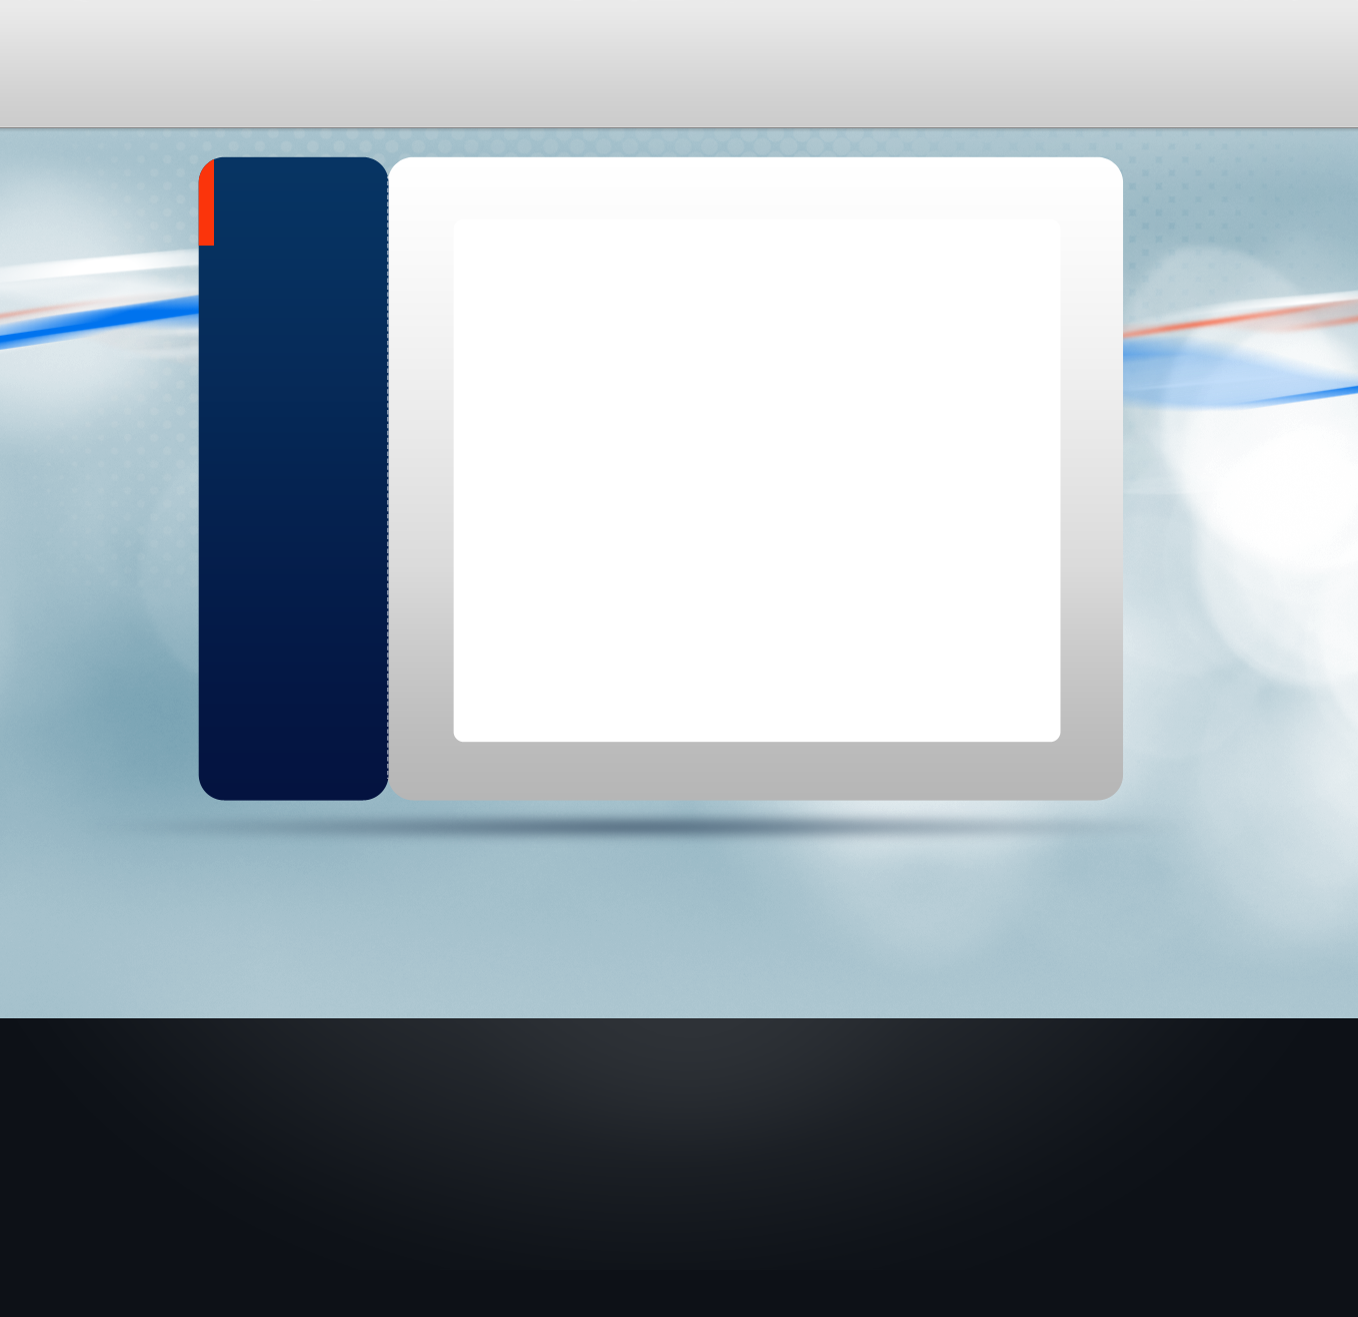
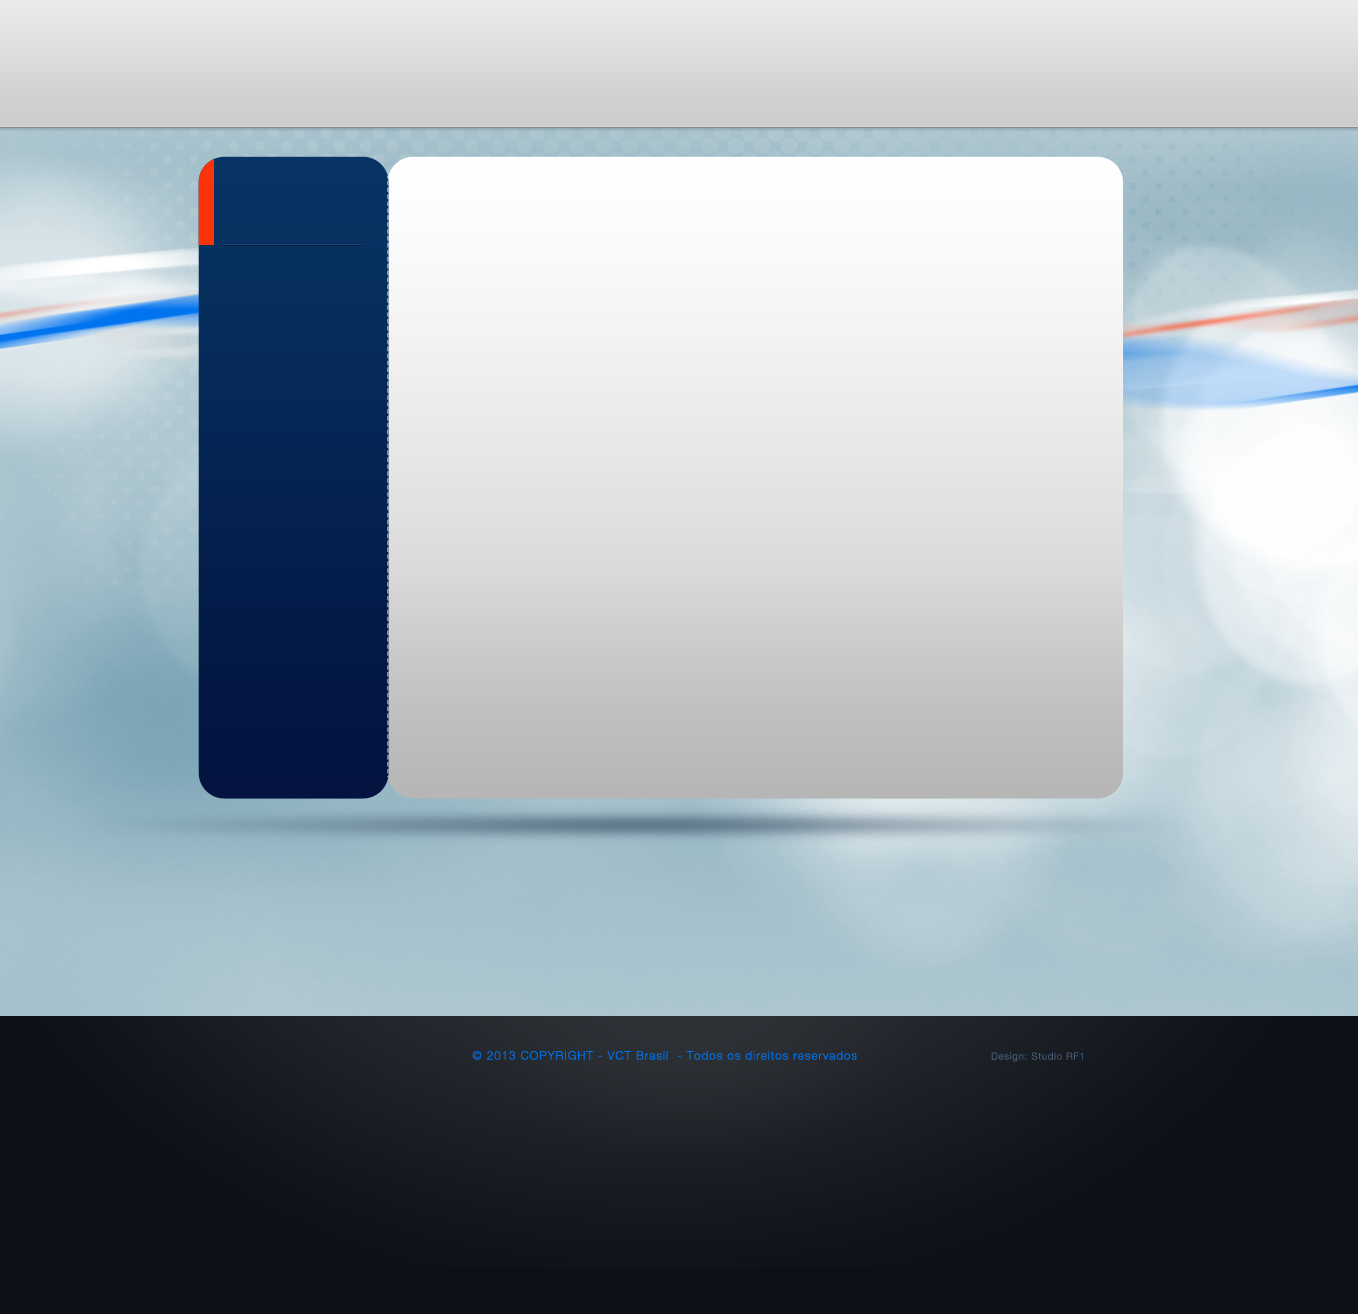
Alteração do background produto

Changed region(s): [[0.3093, 0.3432, 0.8041, 0.5616]]

diff --git a/css/produto.css b/css/produto.css
@@ -6,10 +6,22 @@
 
 /*  Middle  */
 
-#middle { width: 1358px; height: 864px; position: relative; background-color: beige }
+#middle { width: 1358px; height: 864px; position: relative }
 
-	#middle #card { width: 386px; height: 884px;  float: left; background-color: red }
-		#middle #card #cardMenu { width: 189px; height: 608px; margin-left: 199px; background-color: orange }
+	#middle #card { width: 386px; height: 884px;  float: left }
+		#middle #card #cardMenu { width: 189px; height: 608px; margin-left: 199px }
+			#middle #card #cardMenu #cardTittle { width: 155px; height: 88px; padding-left: 23px; padding-top: 56px; letter-spacing: 1px;
+												font-family: Signika, sans-serif; font-weight: bold; font-size: 16px; color: #ffffff  }
+			#middle #card #cardMenu #giftCard { width: 189px; height: 68px; background-color: black }
+			#middle #card #cardMenu #smartCard { width: 189px; height: 90px; background-color: navy }
+			#middle #card #cardMenu #corporateCard { width: 189px; height: 41px; background-color: maroon }
+			#middle #card #cardMenu #credentialCard { width: 189px; height: 39px; background-color: green }
+			#middle #card #cardMenu #fidelityCard { width: 189px; height: 39px; background-color: yellow }
+			#middle #card #cardMenu #preCard { width: 189px; height: 41px; background-color: olive }
+			#middle #card #cardMenu #specialCard { width: 189px; height: 59px; background-color: pink }
+			#middle #card #cardMenu #gsmCard  { width: 189px; height: 41px; background-color: violet }
+			#middle #card #cardMenu #paperCard { width: 189px; height: 41px; background-color: purple }
+			#middle #card #cardMenu #aquaticCard { width: 189px; height: 36px; background-color: darkblue }
 
 	#middle #cardImage { width: 972px; height: 884px; float: left; background-color: yellow }
 		#middle #cardImage #boxCardImage { width: 608px; height: 521px; margin-left: 64px; margin-top: 89px; background-color: purple }

diff --git a/produto.html b/produto.html
@@ -58,7 +58,50 @@
         	<div id="middle"> 
         		<div id="card"> 
         			<div id="cardMenu"> 
+        				<div id="cardTittle"> 
+         					Cart&otilde;es para todas as necessidades
+          				</div>	<!-- </cardTitlle> -->
+         			
+         				<div id="giftCard"> 
          
+          				</div>	<!-- </giftCard> -->
+
+          				<div id="smartCard"> 
+         
+          				</div>	<!-- </smartCard> -->
+
+          				<div id="corporateCard"> 
+         
+          				</div>	<!-- </corporateCard> -->
+
+          				<div id="credentialCard"> 
+         
+          				</div>	<!-- </credentialCard> -->
+
+          				<div id="fidelityCard"> 
+         
+          				</div>	<!-- </fidelityCard> -->
+
+          				<div id="preCard"> 
+         
+          				</div>	<!-- </preCard> -->
+
+          				<div id="specialCard"> 
+         
+          				</div>	<!-- </specialCard> -->
+
+          				<div id="gsmCard"> 
+         
+          				</div>	<!-- </gsmCard> -->
+
+          				<div id="paperCard"> 
+         
+          				</div>	<!-- </paperCard> -->
+
+          				<div id="aquaticCard"> 
+         
+          				</div>	<!-- </aquaticCard> -->
+
           			</div>	<!-- </cardMenu> -->
          		</div>	<!-- </card> -->
           
